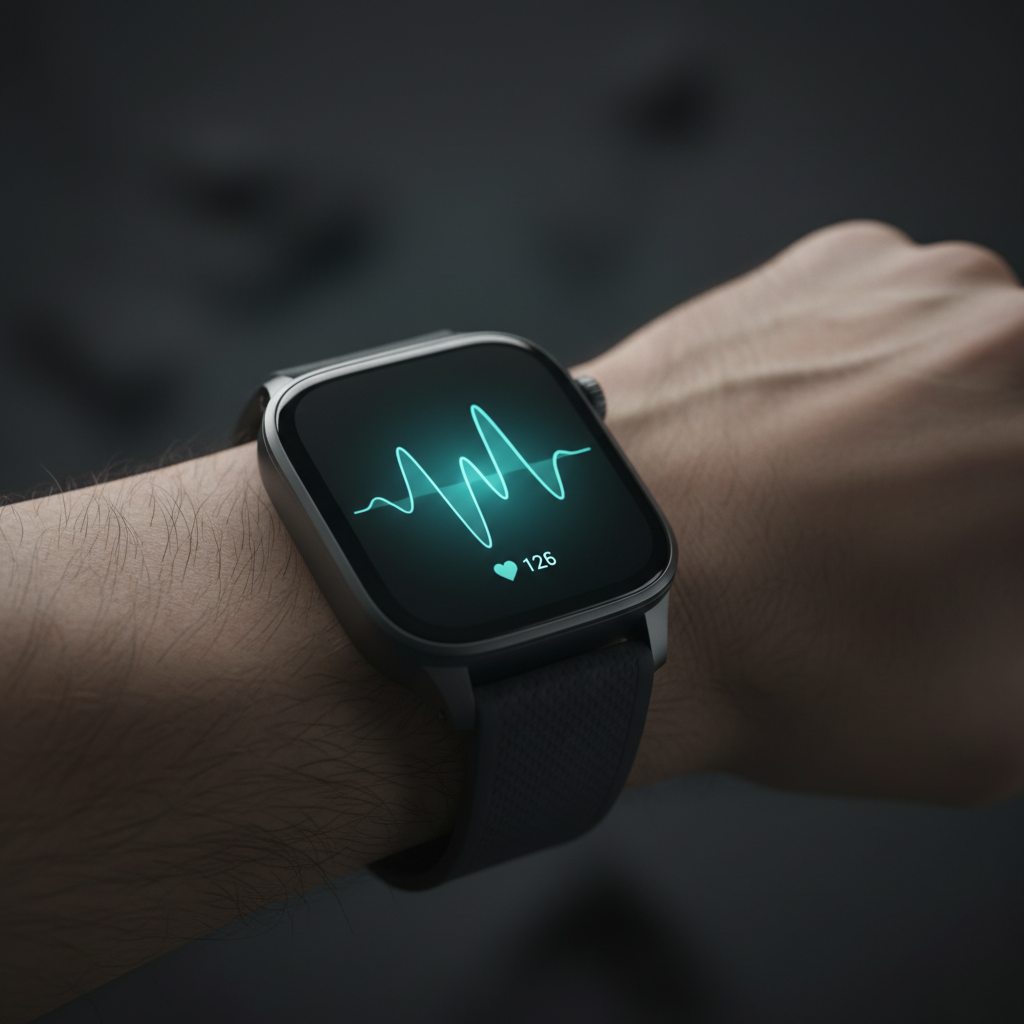
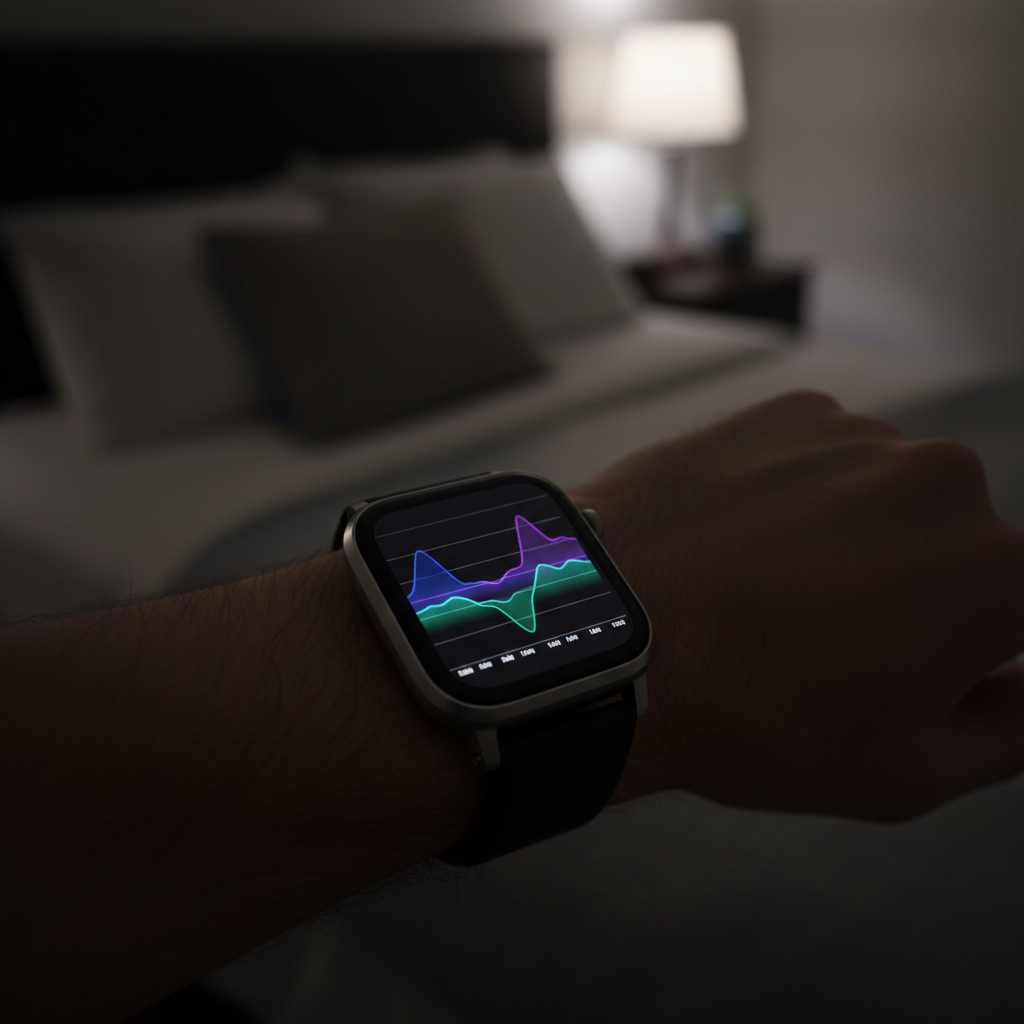
Replace card images: realistic conference, sleep stages wearable

diff --git a/public/CLAUDE.md b/public/CLAUDE.md
@@ -27,4 +27,5 @@
 | ID | Time | T | Title | Read |
 |----|------|---|-------|------|
 | #4761 | 11:11 AM | 🟣 | Downloaded four AI-generated images for website visual enhancements | ~464 |
+| #4756 | 11:02 AM | 🔄 | Removed credibility stats bar from website layout | ~463 |
 </claude-mem-context>